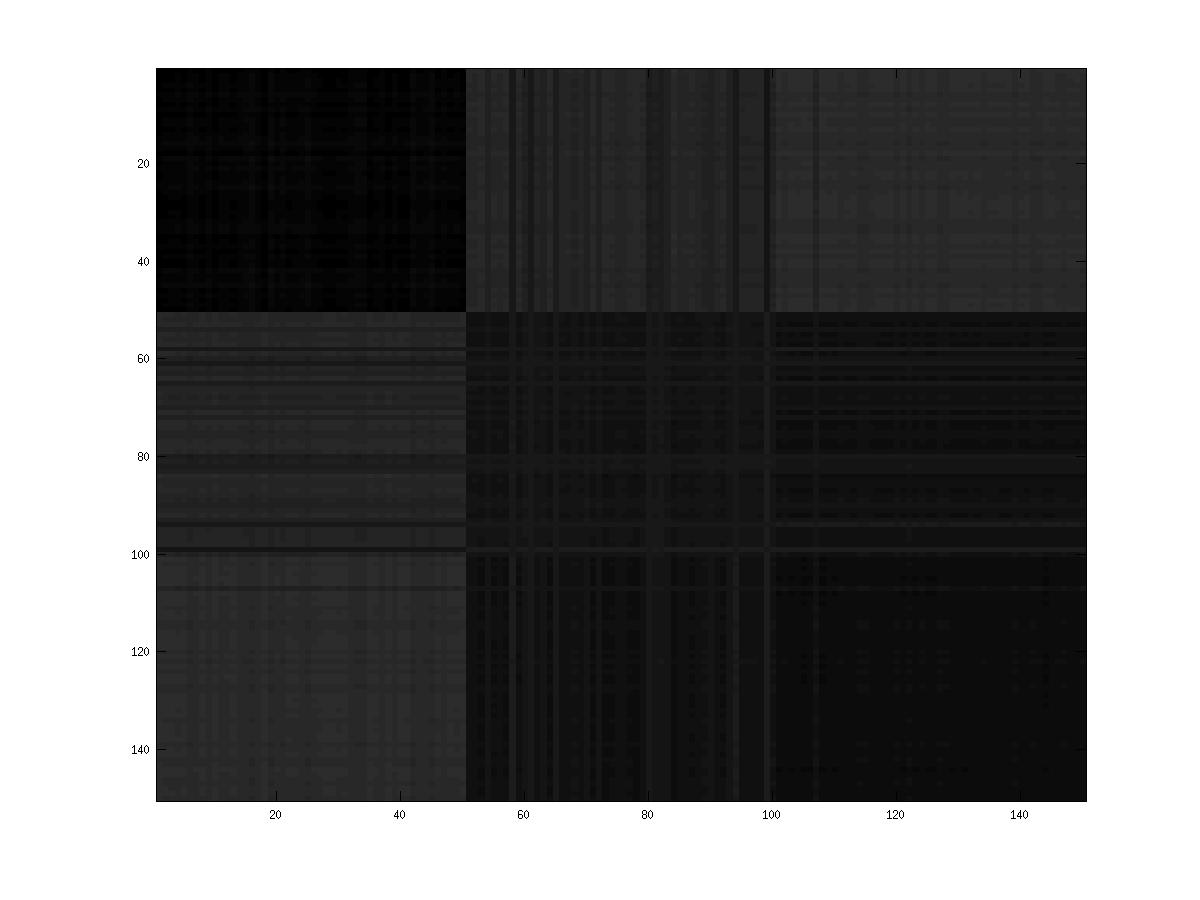
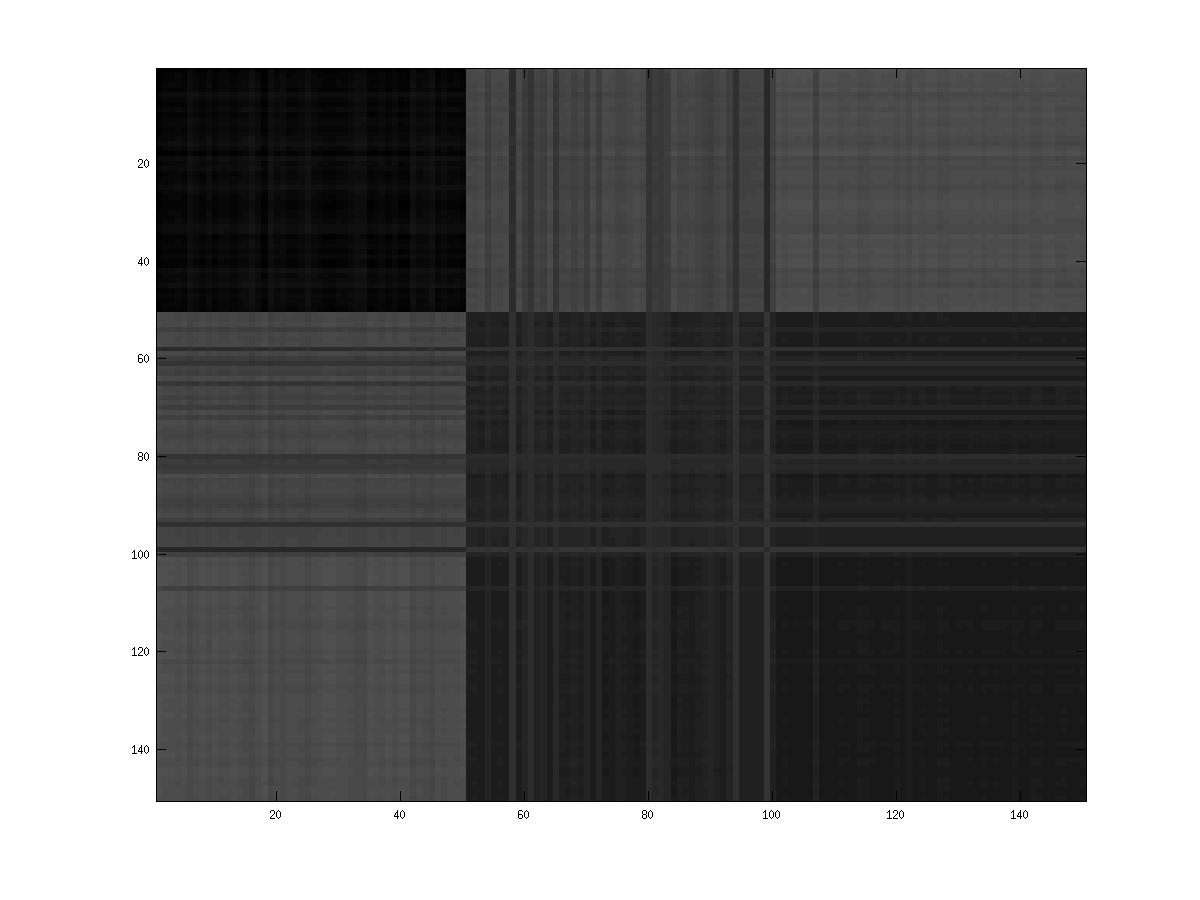
Update the Iris dataset

Changed region(s): [[0.1233, 0.0622, 0.925, 0.9022], [0.6167, 0.5911, 0.6475, 0.6222], [0.5858, 0.56, 0.6167, 0.5911]]

diff --git a/demo_iris.m b/demo_iris.m
@@ -15,12 +15,12 @@ print(f, '-djpeg', 'Results/Iris/Images/Iris.jpg');
 % Your five choices of delta
 deltas = {  'delta = 1 - eye(n);',...
             'delta = (D.^(1/5)).^2;',...
-            'delta = (1-exp(-11.4.*D)).^2;',...
+            'delta = (1-exp(-11.5.*D)).^2;',...
             'delta = (log2(1+D.^(1/4))).^2;',...
             'delta = subdominant_ultrametric(D).^2;'};
 
 %labels assigned to every delta
-delta_names = {'beta-spread','power-fit','exp-fit','log-fit','subdominant-ultrametric'};
+deltaNames = {'beta-spread','power-fit','exp-fit','log-fit','subdominant-ultrametric'};
         
 %% iRFCM configurations/options (those are the default values)
 options.fuzzifier        = 2;
@@ -50,11 +50,11 @@ for i=1:length(deltas)
     
     %save the partition matrix for this delta
     U = out.U;
-    dlmwrite(sprintf('Results/Iris/Partitions/U_%s(%d).csv',delta_names{i},c),U, 'delimiter',',');
+    dlmwrite(sprintf('Results/Iris/Partitions/U_%s(%d).csv',deltaNames{i},c),U, 'delimiter',',');
 
     %save the induced dissimilarity image for this delta
     %Ref. J. Huband and J. Bezdek, “VCV2– Visual cluster validity,” Comput. Intell. Res. Front., 2008.
     uu = 1 - ((U'*U)./max(max(U'*U)));
     f = figure('Visible','off');imagesc(uu);colormap('gray');caxis([0 1]);
-    print(f, '-djpeg', sprintf('Results/Iris/Images/UU_%s(%d).jpg',delta_names{i},c));
+    print(f, '-djpeg', sprintf('Results/Iris/Images/UU_%s(%d).jpg',deltaNames{i},c));
 end

diff --git a/demo_mutation.m b/demo_mutation.m
@@ -20,7 +20,7 @@ deltas = {  'delta = 1-eye(n);',...
             'delta = subdominant_ultrametric(D).^2;'};
         
 %labels assigned to every delta
-delta_names = {'beta-spread','power-fit','exp-fit','log-fit','subdominant-ultrametric'};
+deltaNames = {'beta-spread','power-fit','exp-fit','log-fit','subdominant-ultrametric'};
         
 %% iRFCM configurations/options (those are the default values)
 options.fuzzifier        = 2;
@@ -51,11 +51,11 @@ for i=1:length(deltas)
 
     %save the partition matrix for this delta
     U = out.U;
-    dlmwrite(sprintf('Results/Mutation/Partitions/U-%s(%d).csv',delta_names{i},c),U, 'delimiter',',');
+    dlmwrite(sprintf('Results/Mutation/Partitions/U-%s(%d).csv',deltaNames{i},c),U, 'delimiter',',');
 
     %save the induced dissimilarity image for this delta
     %Ref. J. Huband and J. Bezdek, “VCV2– Visual cluster validity,” Comput. Intell. Res. Front., 2008.
     uu = 1 - ((U'*U)./max(max(U'*U)));
     f = figure('Visible','off');imagesc(uu);colormap('gray');caxis([0 1]);
-    print(f, '-djpeg', sprintf('Results/Mutation/Images/UU-%s(%d).jpg',delta_names{i},c));
+    print(f, '-djpeg', sprintf('Results/Mutation/Images/UU-%s(%d).jpg',deltaNames{i},c));
 end
